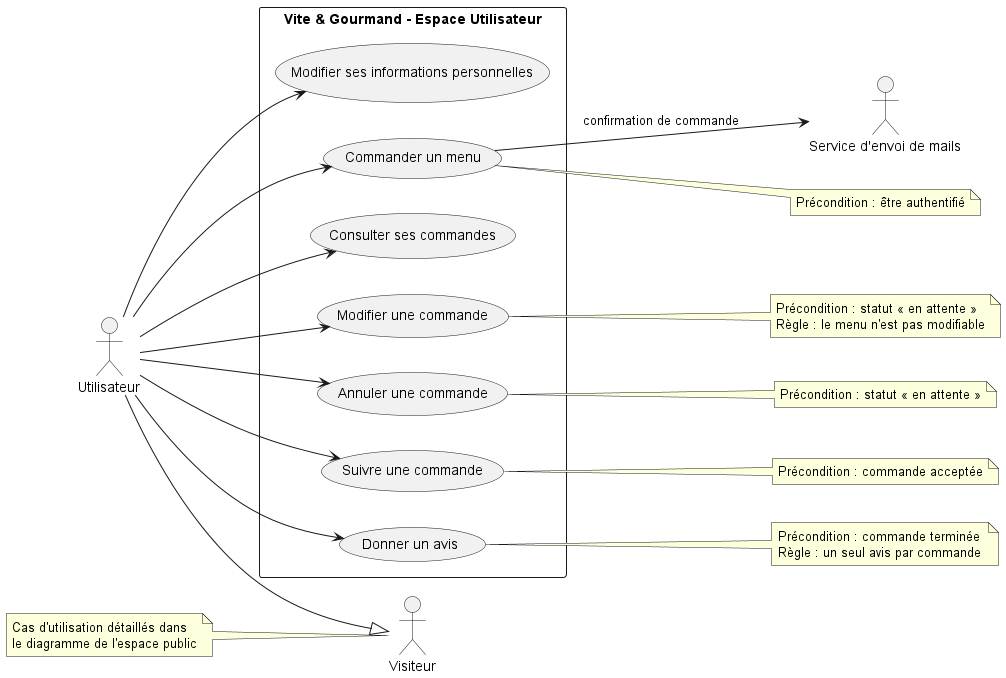
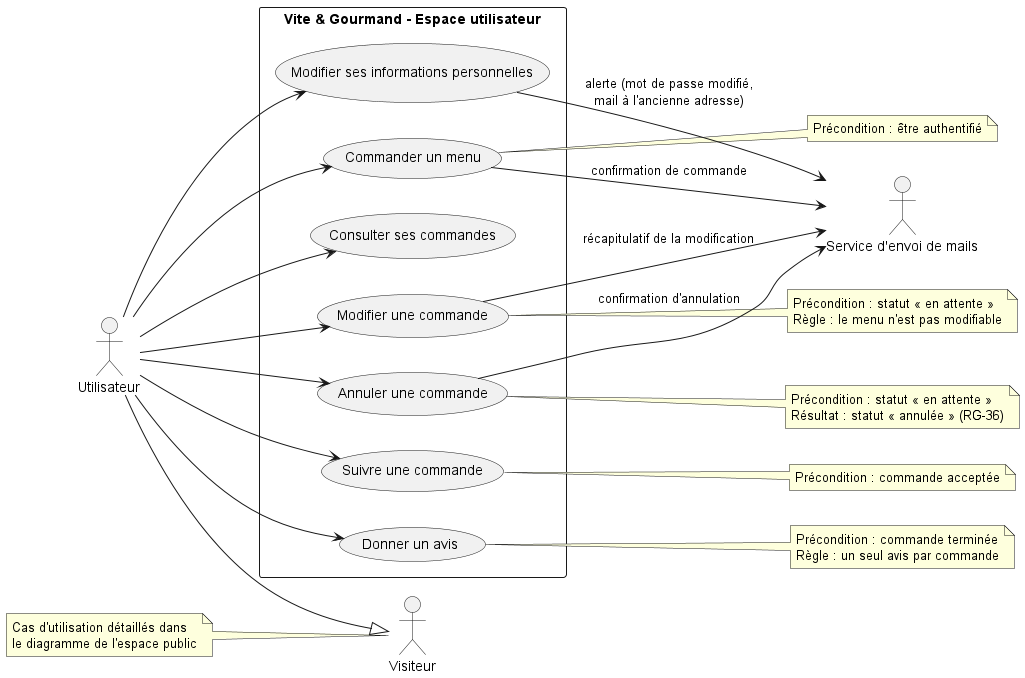
docs: met à jour les synthèses des diagrammes de cas d'utilisation

diff --git a/docs/05-conception.md b/docs/05-conception.md
@@ -11,11 +11,11 @@ Ils sont réalisés avec **PlantUML**, via l'extension VS Code, en rendu local :
 - la même syntaxe servira pour les diagrammes de séquence ;
 - le rendu local évite d'envoyer le contenu des diagrammes à un serveur externe.
 
-Les fichiers sources se trouvent dans `docs/diagrammes/`, et les images exportées dans `docs/images/conception`.
+Les fichiers sources se trouvent dans `docs/diagrammes/`, et les images exportées dans `docs/images/conception/`.
 
 ### Découpage
 
-L'application compte une trentaine de cas d'utilisation. Pour rester lisible, la modélisation est découpée en **un diagramme par espace** : public, utilisateur, employé et administrateur.
+L'application compte une quarantaine de cas d'utilisation. Pour rester lisible, la modélisation est découpée en **un diagramme par espace** : public, utilisateur, employé et administrateur.
 
 ### Acteurs
 
@@ -46,25 +46,25 @@ L'authentification n'est pas représentée par un `<<include>>` : c'est une **pr
 
 ![Diagramme de cas d'utilisation de l'espace public](images/conception/cas-utilisation-public.png)
 
-Le visiteur, non authentifié, découvre l'entreprise et consulte les avis clients validés depuis la page d'accueil. Il accède à l'ensemble des menus, qu'il peut filtrer dynamiquement, et peut consulter le détail de chacun. Il peut créer un compte, se connecter et, en cas d'oubli, réinitialiser son mot de passe. Il peut également contacter l'entreprise via un formulaire, et consulter les horaires d'ouverture ainsi que les mentions légales et les conditions générales de vente. Le service d'envoi de mails intervient comme acteur secondaire lors de la création de compte (mail de bienvenue), de la réinitialisation du mot de passe (lien de réinitialisation) et de la prise de contact (transmission de la demande à l'entreprise).
+Le visiteur, non authentifié, découvre l'entreprise et consulte les avis clients validés depuis la page d'accueil. Il accède à l'ensemble des menus, qu'il peut filtrer dynamiquement, et peut consulter le détail de chacun. Il peut créer un compte, puis confirmer son adresse mail grâce au lien reçu : le compte n'est activé qu'après cette confirmation. Il peut se connecter et, en cas d'oubli, réinitialiser son mot de passe. Il peut également contacter l'entreprise via un formulaire, et consulter les horaires d'ouverture ainsi que les mentions légales et les conditions générales de vente. Le service d'envoi de mails intervient comme acteur secondaire lors de la création de compte (mail de bienvenue contenant le lien de confirmation), de la réinitialisation du mot de passe (lien de réinitialisation, puis alerte de modification) et de la prise de contact (transmission de la demande à l'entreprise).
 
 ### Espace utilisateur
 
 ![Diagramme de cas d'utilisation de l'espace utilisateur](images/conception/cas-utilisation-utilisateur.png)
 
-L'utilisateur est un visiteur authentifié : il hérite de l'ensemble des cas d'utilisation de l'espace public. Une fois connecté, il peut commander un menu, depuis la vue détaillée d'un menu ou directement depuis la page de commande ; une confirmation lui est alors envoyée par mail par l'intermédiaire du service d'envoi de mails. Il peut consulter le détail de toutes ses commandes, les modifier (à l'exception du menu choisi) ou les annuler tant qu'elles n'ont pas été acceptées par l'équipe, puis suivre leur avancement une fois acceptées. Lorsqu'une commande est terminée, il peut donner un avis, composé d'une note de 1 à 5 et d'un commentaire. Il peut enfin modifier ses informations personnelles.
+L'utilisateur est un visiteur authentifié : il hérite de l'ensemble des cas d'utilisation de l'espace public. Une fois connecté, il peut commander un menu, depuis la vue détaillée d'un menu ou directement depuis la page de commande ; une confirmation lui est alors envoyée par mail par l'intermédiaire du service d'envoi de mails. Il peut consulter le détail de toutes ses commandes, les modifier (à l'exception du menu choisi) ou les annuler tant qu'elles n'ont pas été acceptées par l'équipe ; chaque modification donne lieu à un mail récapitulatif, et chaque annulation, qui fait passer la commande au statut « annulée », à un mail de confirmation. Il peut ensuite suivre l'avancement de ses commandes une fois acceptées. Lorsqu'une commande est terminée, il peut donner un avis, composé d'une note de 1 à 5 et d'un commentaire. Il peut enfin modifier ses informations personnelles ; un changement de mot de passe ou d'adresse mail déclenche un mail d'alerte, envoyé à l'ancienne adresse dans le cas d'un changement d'adresse.
 
 ### Espace employé
 
 ![Diagramme de cas d'utilisation de l'espace employé](images/conception/cas-utilisation-employe.png)
 
-L'employé hérite des cas d'utilisation de l'espace public. À sa première connexion, il doit remplacer le mot de passe provisoire fourni par l'administrateur par un mot de passe personnel. Il gère les menus et les plats (création, modification, suppression, y compris les allergènes) et modifie les horaires d'ouverture. Il consulte les commandes, qu'il peut filtrer par statut ou par client, et fait évoluer leur statut ; certains changements déclenchent l'envoi d'un mail au client par le service d'envoi de mails : rappel des conditions de restitution du matériel, puis invitation à donner son avis lorsque la commande est terminée. Il ne peut modifier ou annuler la commande d'un client qu'après l'avoir contacté, en renseignant obligatoirement le mode de contact (GSM ou mail) et le motif. Enfin, il modère les avis laissés par les utilisateurs, en les validant ou en les refusant.
+L'employé hérite des cas d'utilisation de l'espace public. À sa première connexion, il doit remplacer le mot de passe provisoire fourni par l'administrateur par un mot de passe personnel ; un mail d'alerte confirme ce changement. Il gère les menus (création, modification, suppression sous forme d'archivage) et les publie pour les rendre visibles aux clients, à condition qu'ils comportent au moins une photo. Il gère aussi les plats et leurs allergènes, les régimes et les thèmes proposés, et modifie les horaires d'ouverture. Il consulte les commandes, qu'il peut filtrer par statut ou par client, et fait évoluer leur statut ; certains changements déclenchent l'envoi d'un mail au client par le service d'envoi de mails : rappel des conditions de restitution du matériel, puis invitation à donner son avis lorsque la commande est terminée. Il ne peut modifier ou annuler la commande d'un client qu'après l'avoir contacté, en renseignant obligatoirement le mode de contact (GSM ou mail) et le motif ; le client reçoit ensuite un mail récapitulatif avec le nouveau prix, ou un mail l'informant de l'annulation et de son motif. Enfin, il modère les avis laissés par les utilisateurs, en les validant ou en les refusant, et peut retirer un avis déjà validé ; un refus ou un retrait exige un motif, communiqué au client par mail.
 
 ### Espace administrateur
 
 ![Diagramme de cas d'utilisation de l'espace administrateur](images/conception/cas-utilisation-administrateur.png)
 
-L'administrateur hérite de l'ensemble des cas d'utilisation de l'espace employé. Il crée les comptes employés à partir d'une adresse mail et d'un mot de passe provisoire ; l'employé est informé de la création de son compte par un mail envoyé par le service d'envoi de mails, qui ne contient jamais le mot de passe. Il peut désactiver un compte employé, par exemple en cas de départ de l'entreprise. Il consulte enfin les statistiques de l'activité : le nombre de commandes par menu, présenté sous forme de graphique comparatif, et le chiffre d'affaires par menu, qu'il peut filtrer par menu et par période. Le compte administrateur unique est créé par le développeur : aucun compte administrateur ne peut être créé depuis l'application.
+L'administrateur hérite de l'ensemble des cas d'utilisation de l'espace employé. Il crée les comptes employés à partir du nom, du prénom et de l'adresse mail de l'employé ; un mot de passe provisoire est généré automatiquement, et l'employé est informé de la création de son compte par un mail envoyé par le service d'envoi de mails, qui ne contient jamais le mot de passe. Il peut désactiver un compte employé, par exemple en cas de départ de l'entreprise, puis le réactiver si besoin avec un nouveau mot de passe provisoire. Il peut aussi consulter l'historique des actions d'un employé. Il consulte enfin les statistiques de l'activité : le nombre de commandes par menu, hors commandes annulées, présenté sous forme de graphique comparatif et filtrable par période, et le chiffre d'affaires par menu, réalisé et prévisionnel, qu'il peut filtrer par menu et par période. Le compte administrateur unique est créé par le développeur : aucun compte administrateur ne peut être créé depuis l'application.
 
 
 ## Diagramme de séquence
